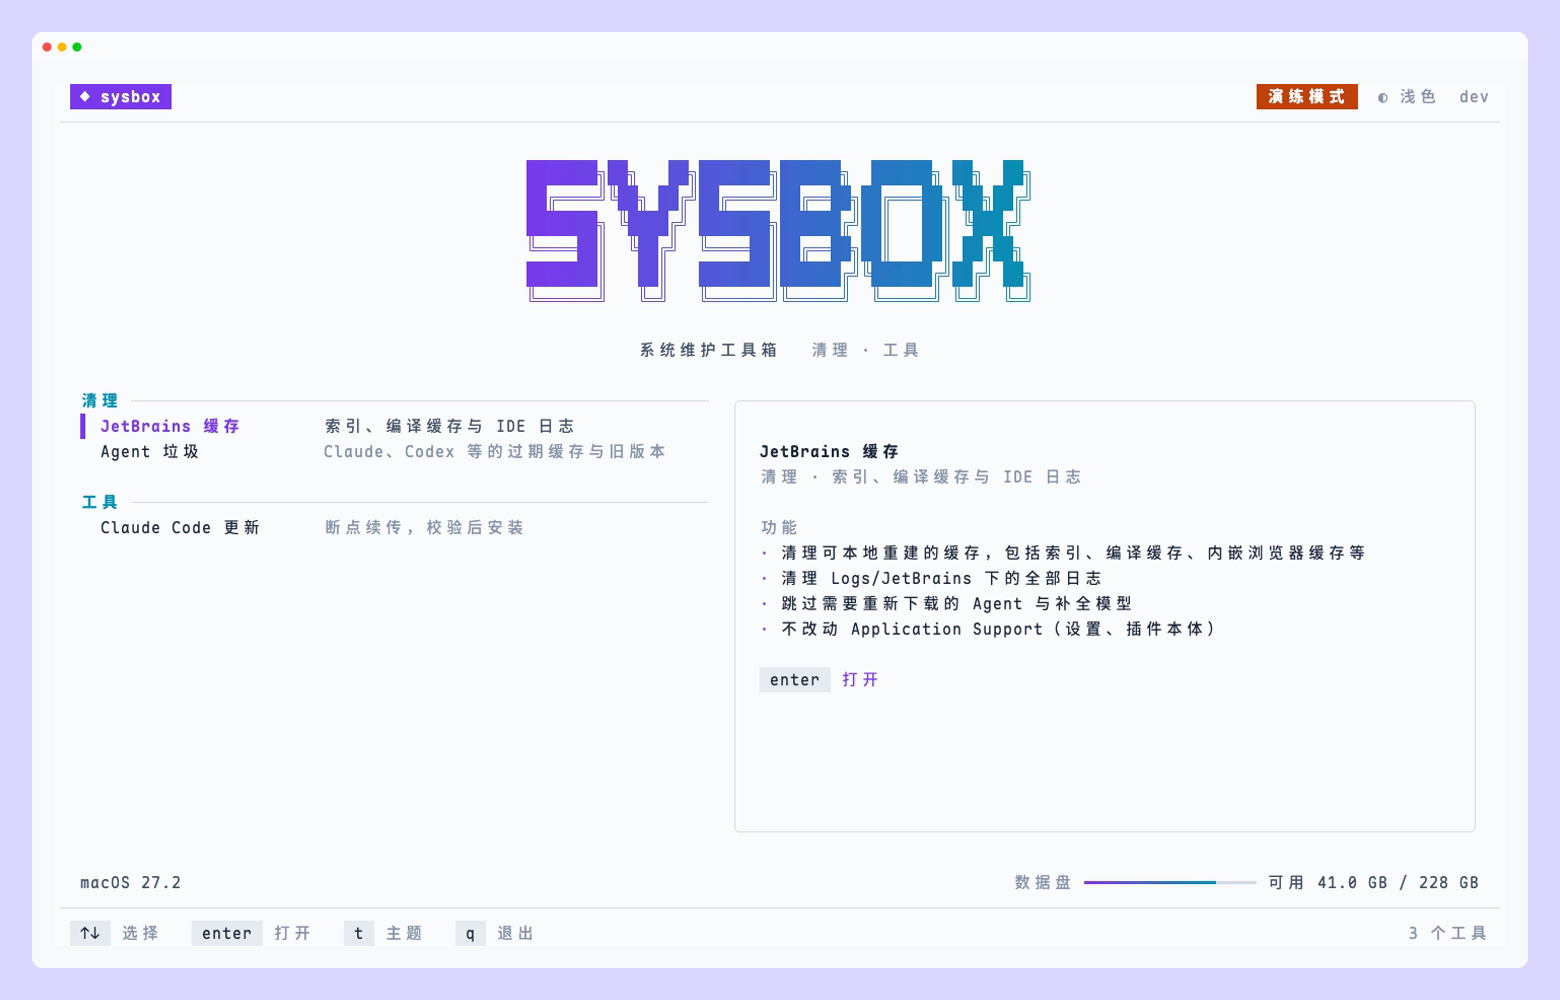
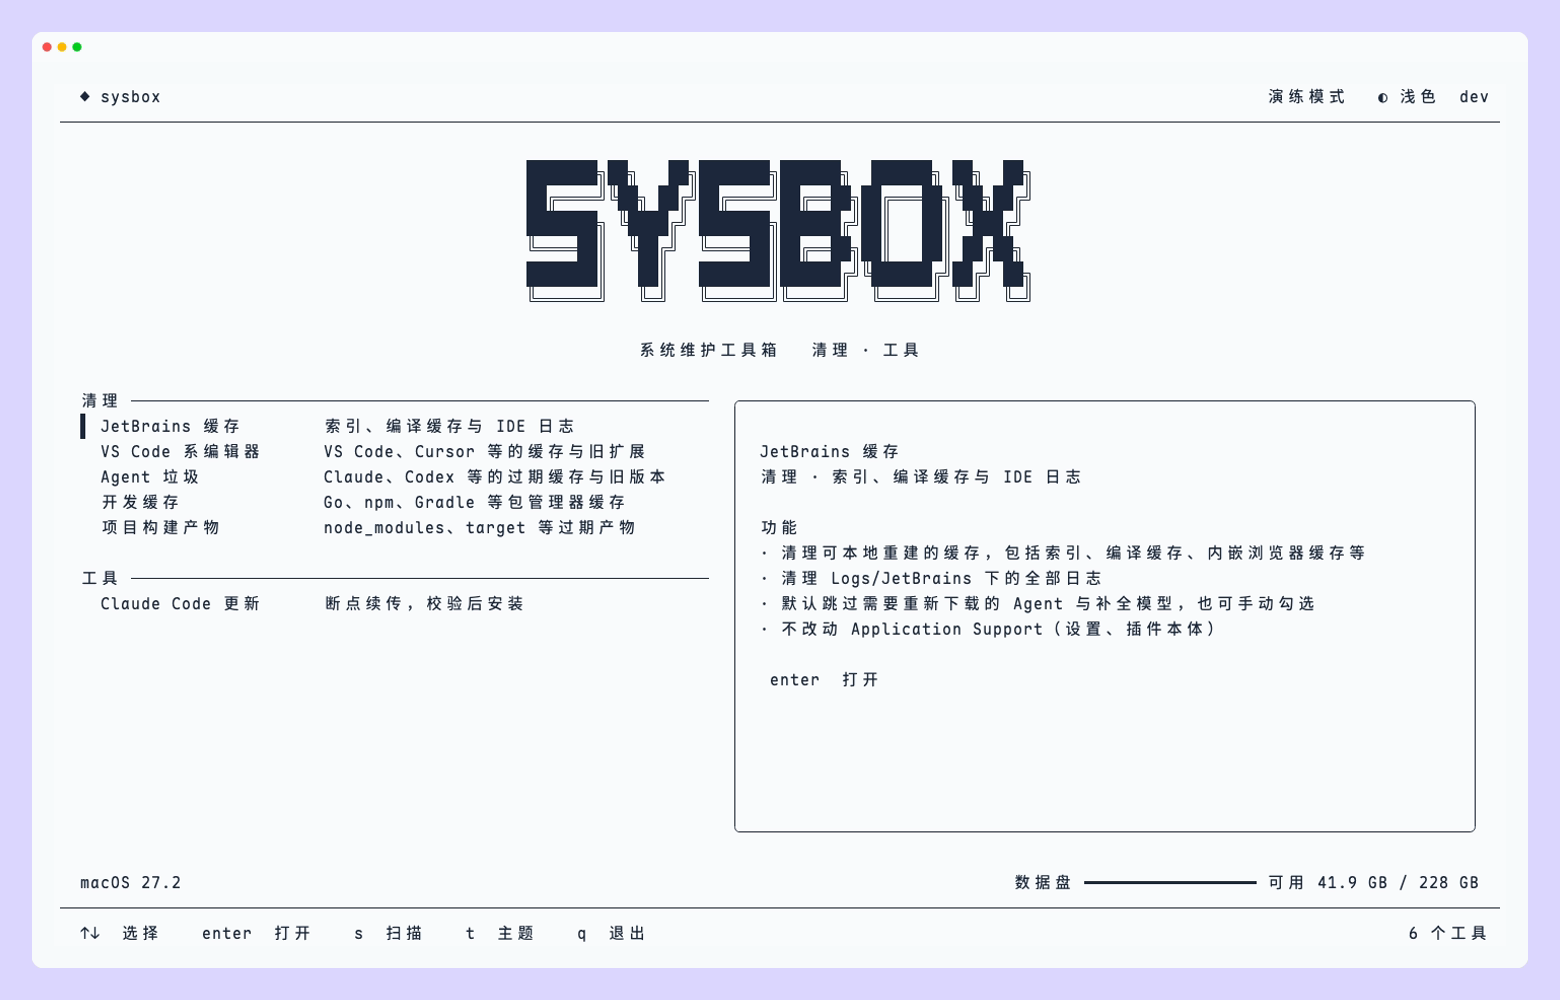
docs: 更新 README 截图
- 新增首页一键扫描、VS Code、开发缓存、项目构建产物截图
- 录制脚本设置 TERM 以启用真彩色，并补录新工具页面

diff --git a/README.md b/README.md
@@ -138,9 +138,11 @@ sysbox version         # 显示版本号
 
 | | |
 |---|---|
-| ![首页](docs/screenshots/dark/01-home.png) | ![JetBrains 缓存](docs/screenshots/dark/02-jetbrains.png) |
-| ![确认弹窗](docs/screenshots/dark/03-jetbrains-confirm.png) | ![清理完成](docs/screenshots/dark/04-jetbrains-done.png) |
-| ![Agent 垃圾](docs/screenshots/dark/05-agent.png) | ![Claude Code 更新](docs/screenshots/dark/10-claude.png) |
+| ![首页](docs/screenshots/dark/01-home.png) | ![首页一键扫描](docs/screenshots/dark/01-home-scan.png) |
+| ![JetBrains 缓存](docs/screenshots/dark/02-jetbrains.png) | ![确认弹窗](docs/screenshots/dark/03-jetbrains-confirm.png) |
+| ![清理完成](docs/screenshots/dark/04-jetbrains-done.png) | ![Agent 垃圾](docs/screenshots/dark/05-agent.png) |
+| ![VS Code 缓存](docs/screenshots/dark/06-vscode.png) | ![开发缓存](docs/screenshots/dark/07-devcache.png) |
+| ![项目构建产物](docs/screenshots/dark/08-projects.png) | ![Claude Code 更新](docs/screenshots/dark/10-claude.png) |
 
 浅色主题：
 
